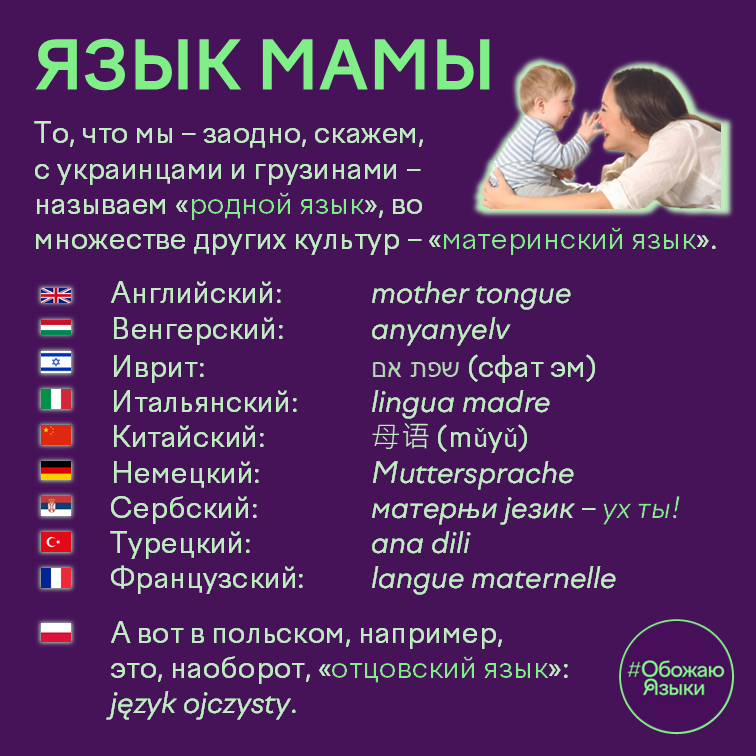
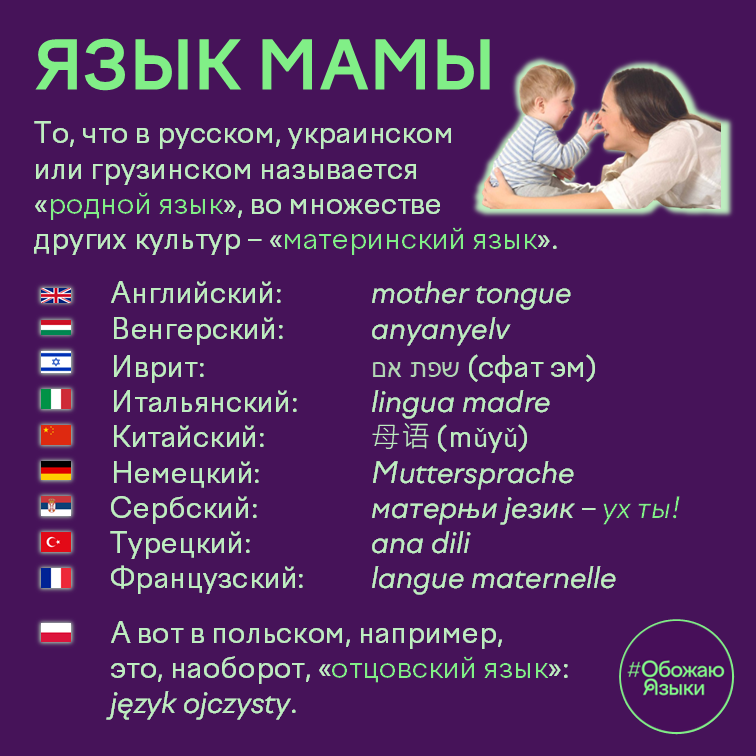
Заменить картинку в посте «Язык мамы», синхронизировать описание

diff --git a/site/yazykmamy/index.html b/site/yazykmamy/index.html
@@ -4,7 +4,7 @@
 <meta charset="utf-8">
 <title>Язык мамы – Обожаю Языки</title>
 <meta name="viewport" content="width=device-width, initial-scale=1">
-<meta name="description" content="ЯЗЫК МАМЫ. То, что мы – заодно, скажем, с украинцами и грузинами – называем «родной язык», во множестве других культур – «материнский язык». Английский: mother tongue. Венгерский: anyanyelv. Иврит: שפת אם (сфат эм). Итальянский: lingua madre. Китайский: 母语 (mǔyǔ). Немецкий: Muttersprache. Сербский: матерњи језик – ух ты! Турецкий: ana dili. Французский: langue maternelle. А вот в польском, например, это, наоборот, «отцовский язык»: język ojczysty.">
+<meta name="description" content="ЯЗЫК МАМЫ. То, что в русском, украинском или грузинском называется «родной язык», во множестве других культур – «материнский язык». Английский: mother tongue. Венгерский: anyanyelv. Иврит: שפת אם (сфат эм). Итальянский: lingua madre. Китайский: 母语 (mǔyǔ). Немецкий: Muttersprache. Сербский: матерњи језик – ух ты! Турецкий: ana dili. Французский: langue maternelle. А вот в польском, например, это, наоборот, «отцовский язык»: język ojczysty.">
 
 <link rel="canonical" href="https://adorelanguages.com/site/yazykmamy/">
 
@@ -30,7 +30,7 @@
   "@context": "https://schema.org",
   "@type": "Article",
   "headline": "Язык мамы",
-  "description": "ЯЗЫК МАМЫ. То, что мы – заодно, скажем, с украинцами и грузинами – называем «родной язык», во множестве других культур – «материнский язык». Английский: mother tongue. Венгерский: anyanyelv. Иврит: שפת אם (сфат эм). Итальянский: lingua madre. Китайский: 母语 (mǔyǔ). Немецкий: Muttersprache. Сербский: матерњи језик – ух ты! Турецкий: ana dili. Французский: langue maternelle. А вот в польском, например, это, наоборот, «отцовский язык»: język ojczysty.",
+  "description": "ЯЗЫК МАМЫ. То, что в русском, украинском или грузинском называется «родной язык», во множестве других культур – «материнский язык». Английский: mother tongue. Венгерский: anyanyelv. Иврит: שפת אם (сфат эм). Итальянский: lingua madre. Китайский: 母语 (mǔyǔ). Немецкий: Muttersprache. Сербский: матерњи језик – ух ты! Турецкий: ana dili. Французский: langue maternelle. А вот в польском, например, это, наоборот, «отцовский язык»: język ojczysty.",
   "image": "https://adorelanguages.com/images/posts/yazykmamy.png",
   "keywords": "роднойязык, материнскийязык, языкмамы, английский, немецкий, французский, итальянский, венгерский, иврит, турецкий, сербский, польский, отцовскийязык, обожаюязыки, обожаюязыкознание, языкознание, лингвистика, переводчики, иностранныеязыки, полиглот, филология, наукаоязыке",
   "inLanguage": "ru",
